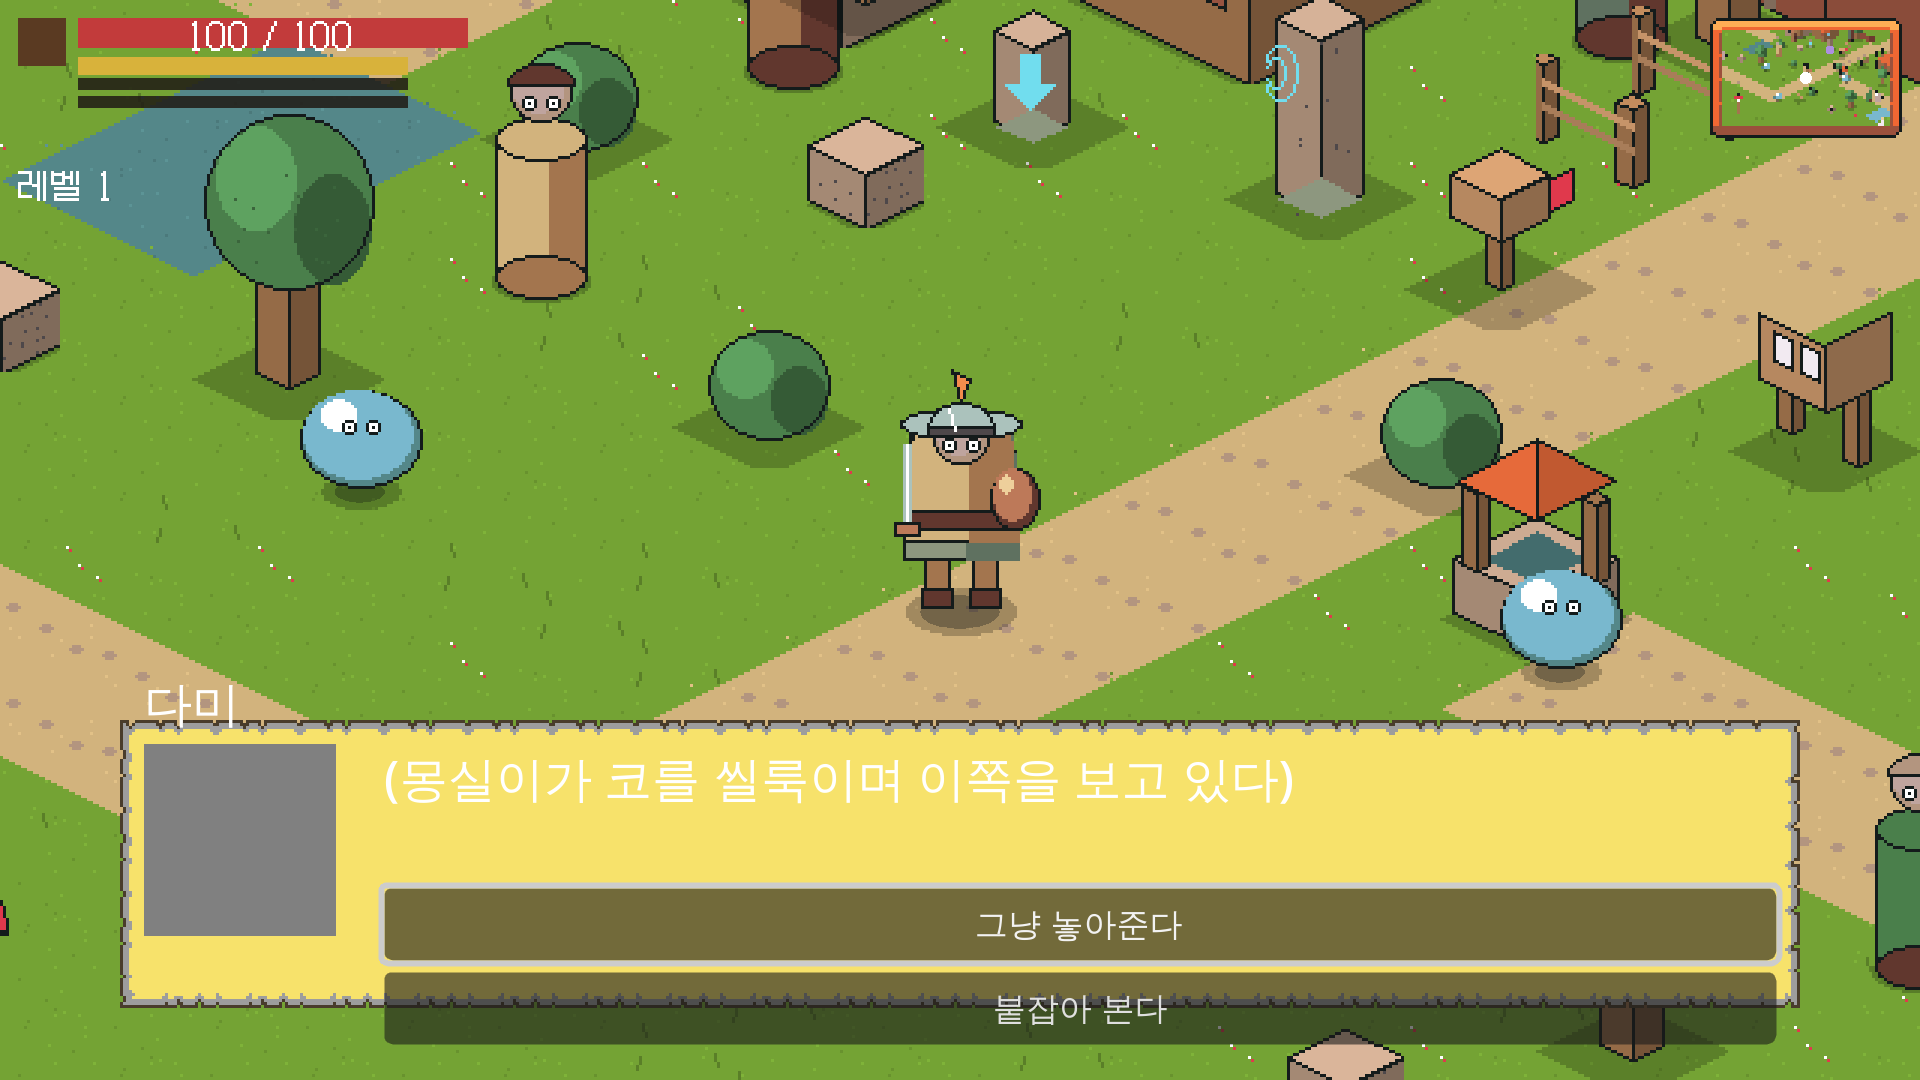
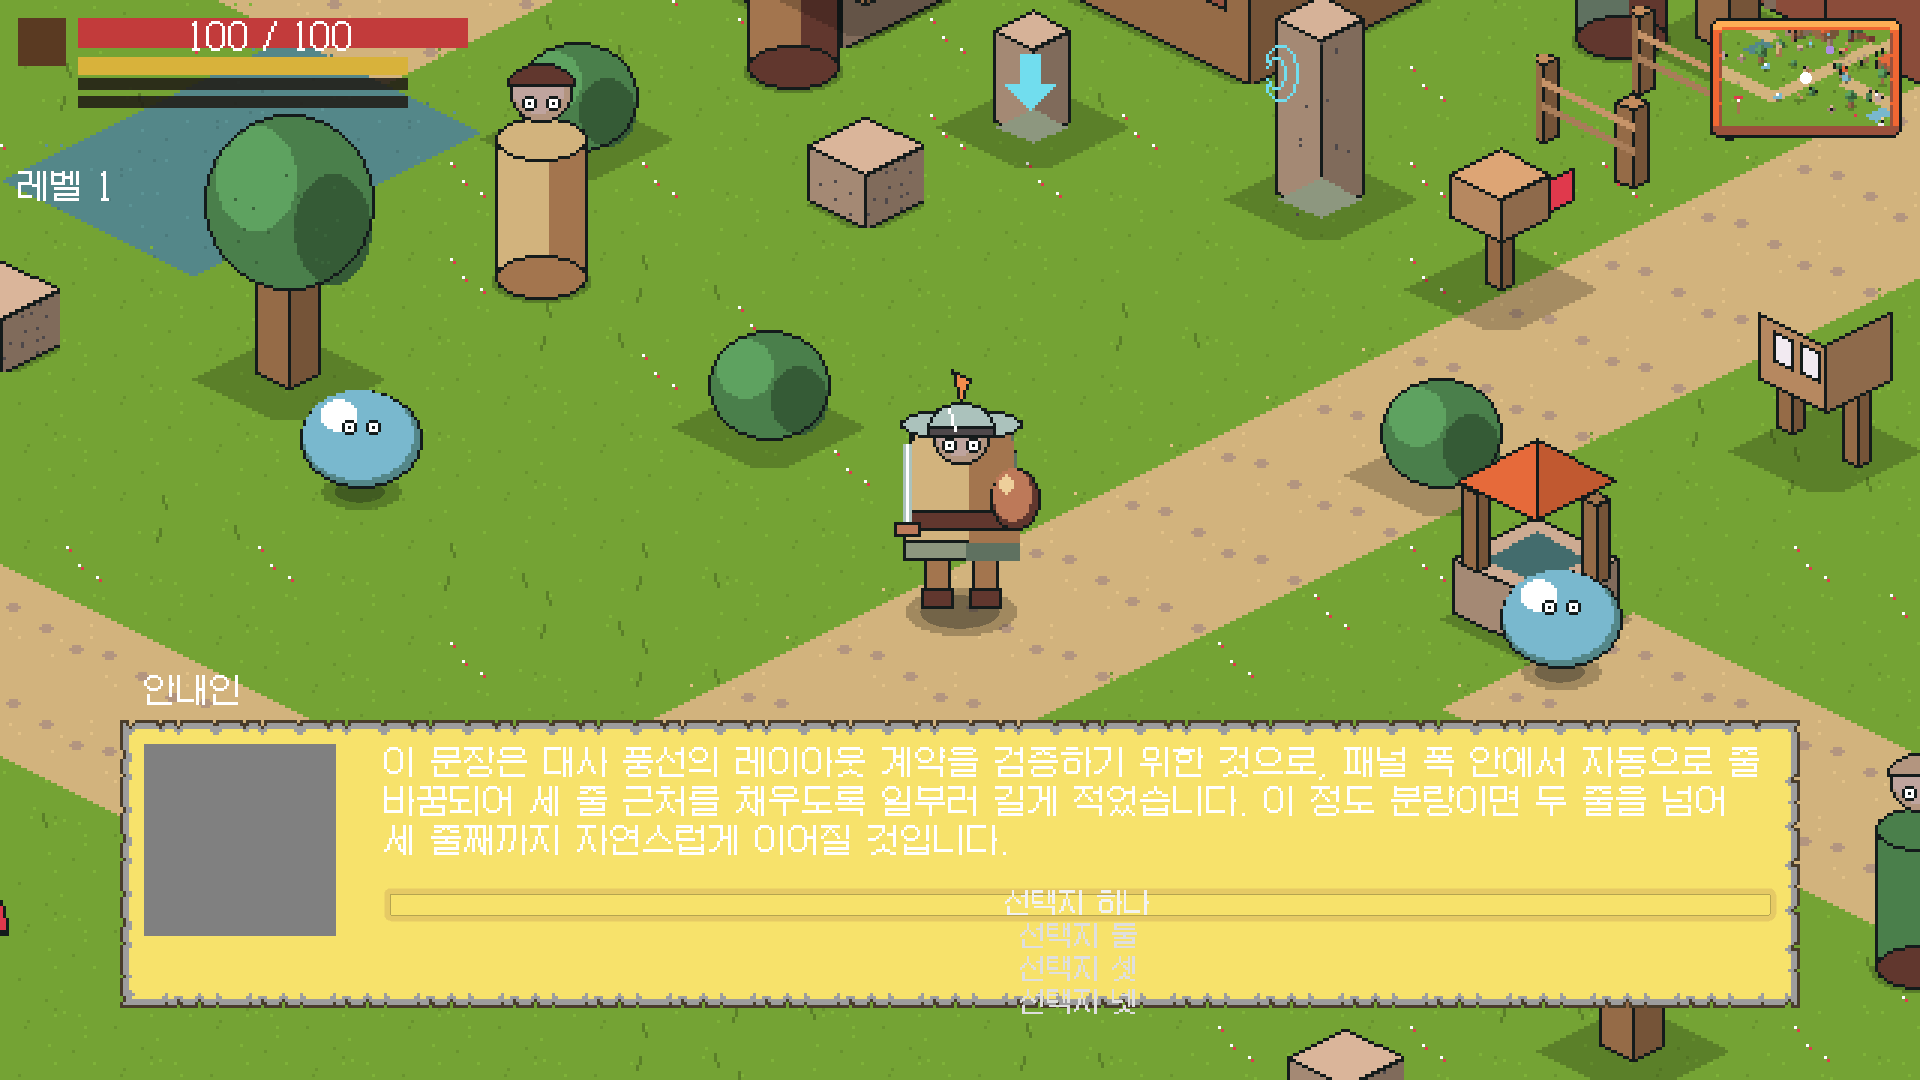
[M7-int] 대사 풍선 리뷰 반영 — HUD 테마 적용(선택지 4개·본문 3줄이 패널 안에), 본문·초상 클릭이 다음으로 전달, 레이아웃 계약 스모크·Xvfb 클릭 회귀
Claude-Session: https://claude.ai/code/session_019xLPQSijGdEPC5MNZ6KZW8

Changed region(s): [[0.1875, 0.6722, 0.9375, 0.9778], [0.0625, 0.6111, 0.125, 0.6722]]

diff --git a/docs/ui/dialogue-balloon.md b/docs/ui/dialogue-balloon.md
@@ -132,7 +132,8 @@
 | 자동 진행 ON (접근성) | 설정에서 자동 진행 활성 | 타이핑 완료 후 지정 시간(예: 1.5초 **(제안, 결정 필요 §6-F)**) 뒤 자동으로 다음 줄. 선택지 줄에는 자동 진행 미적용(사용자 결정 필요) |
 | 640×360 이하 폭(웹 축소 창) | 브라우저 창이 정수 배율 미만으로 축소 | Godot `stretch/mode=canvas_items`+`scale_mode=integer`가 레터박스 처리 — 풍선 좌표는 항상 640×360 논리 좌표 기준이라 별도 대응 불필요(사실, `project.godot` 확인) |
 
-## 5. 테마 색 키 재사용 목록 (신규 정의 없음 — `game/ui/theme.tres` 기존 키만 사용)
+## 5. 테마 색 키 재사용 목록 (원칙: 신규 정의 없음 — `game/ui/theme.tres` 기존 키만 사용,
+## 단 아래 `Dialogue/font_sizes/response` 1건은 예외, 표 아래 각주 참고)
 
 | 용도 | 재사용 키 | 비고 |
 |---|---|---|
@@ -143,6 +144,14 @@
 | 선택지 포커스 하이라이트 | `theme.get_stylebox("focus_highlight", "Inventory")` 또는 `theme.get_color("focus", "Inventory")` | 인벤토리 슬롯 포커스와 동일 시각 언어 |
 | 선택지 비활성(조건 미충족으로 회색 처리 필요할 때) | `theme.get_color("disabled", "Inventory")` | 예: 호감도 부족으로 잠긴 선택지 **(제안, 콘텐츠 있을 때만)** |
 | 폰트 크기 2단계 | `HUD/font_sizes/default`(11) / `HUD/font_sizes/large`(15), `Settings.font_size_large` | `hud.gd`/`blacksmith.md` §"폰트 크기 변경"과 동일 패턴: Root에 `theme_override_font_sizes/font_size` 적용 후 하위 상속 |
+
+**각주(⑪-1 결함 수정, 신규 키 1건)**: 선택지 목록이 `(128,296)~(592,344)`(48px, 4개 하드
+상한)에 고정돼 있어 본문 폰트(`HUD/font_sizes/default`=11, 줄당 약 14.7px)를 그대로
+쓰면 4개가 못 들어간다(실측: 11px 그대로면 마지막 버튼이 y=352까지 내려가 8px 초과).
+`Dialogue/font_sizes/response`(9)를 새로 추가해 응답 버튼에만 적용한다 — 위 표의
+"재사용" 원칙에 대한 유일한 예외이며, 큰 글자 접근성 설정은 아직 배선하지 않았다
+(`dialogue_balloon.gd` 완료 보고 TODO, §6 "큰 폰트에서도 3줄이 들어가는지 검증 필요"와
+같은 이유로 응답 목록도 후속 검증 대상).
 
 ## 6. 접근성
 

diff --git a/docs/specs/dialogue-system-v1.md b/docs/specs/dialogue-system-v1.md
@@ -192,6 +192,7 @@ if entry.has("dialogue_path"):
 
 - 패널 `(40,240)` `560×96`, 초상 `64×64`, 이름표, 본문 3줄, 선택지 최대 4개.
 - 입력: `ui_confirm`(확인: `project.godot:205`에 이미 정의됨) = 다음/스킵, `ui_cancel` = 정책 미정(D-241), `ui_up`/`ui_down`(Godot 기본값, 재정의 없음) = 선택지 이동, 좌클릭(D-196 `gui_input` + `MOUSE_BUTTON_LEFT` 패턴, `inventory_menu.gd` 확인) = 선택지 확정.
+- 좌클릭(패널 영역) = 다음/스킵(결함 수정, ⑪-1): `dialogue_balloon.gd`의 `_on_panel_gui_input`이 패널 전체의 클릭을 받아 타이핑 중이면 스킵, 완료 상태면 다음 줄로 진행한다(선택지가 떠 있으면 무시). 본문(`DialogueLabel`)·초상(`ColorRect`)은 `mouse_filter=MOUSE_FILTER_IGNORE`로 두어 그 위 클릭도 패널까지 그대로 내려간다(`docs/ui/dialogue-balloon.md` §1 좌표 안에서는 어디를 클릭해도 동일하게 동작 — `dialogue-balloon.md` §2 표에도 동일하게 반영).
 - `QuestNpcPanel`의 4종 전체화면 UI 상호배타(`is_menu_open`/`is_blacksmith_open`/`is_mailbox_open`/`is_quest_npc_open`, `ui_root.gd:52-134` 확인)에는 넣지 않는다 — `paused` 여부는 D-240/D-248로 미해결.
 
 **`docs/ui/dialogue-balloon.md`와의 상충 (검증 이후 발견, D-255/D-256)**: 이 문서 §7이 "그대로 구현 기준"으로 삼은 그 문서와 두 지점이 충돌한다.
